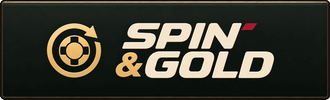
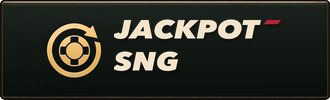
feat: re-letter the Jackpot SNG, Battle Royale and Fast Fold tab plates
The header plates still showed Spin & Gold, Mystery Battle Royale and Rush & Cash baked into the
art. tools/original-assets/tab-plates.py keeps each plate's frame, background and icon, repaints
the old lettering area with the plate's own background and sets the DanGG name in Avenir Next
Heavy Italic with the red slash accent. Same 330x100 size, so no code changes.

Changed region(s): [[0.3333, 0.18, 0.8485, 0.81]]

diff --git a/tools/original-assets/tab-plates.py b/tools/original-assets/tab-plates.py
@@ -1,0 +1,104 @@
+#!/usr/bin/env python3
+"""Re-letter three of Dan's header game-tab plates with DanGG product names.
+
+The plates (app/public/assets/chrome/tab_*.png, 330x100) are Dan's own artwork. This keeps each
+plate's frame, background and icon, clears the old lettering by repainting that area with the
+plate's own background (a per-row blend of the clean columns on either side), and sets the new
+name in two lines of Avenir Next Heavy Italic with the red slash accent the other plates use.
+Re-running is safe: it clears and re-letters the same area.
+
+Run from the repo root (needs Pillow):  python3 tools/original-assets/tab-plates.py
+"""
+from pathlib import Path
+
+from PIL import Image, ImageDraw, ImageFilter, ImageFont
+
+CHROME = Path(__file__).resolve().parents[2] / "app/public/assets/chrome"
+FONT = ("/System/Library/Fonts/Avenir Next.ttc", 9)  # Heavy Italic
+CREAM = (244, 228, 204, 255)
+RED = (179, 38, 53, 255)
+SHADOW = (0, 0, 0, 150)
+SCALE = 4  # supersampling for clean edges
+TEXT_RIGHT = 306  # last x the lettering may reach (the frame's inner edge is at ~326)
+CLEAR_RIGHT = 321  # right clean column of the plate interior
+CLEAR_TOP, CLEAR_BOTTOM = 4, 95
+LINE_TOPS = (20, 52)  # cap tops of the two lines, matching the existing two-line plates
+CAP_HEIGHT = 26
+STRETCH = 1.16  # horizontal widening, closer to the extended lettering of the other plates
+CANVAS_W = 260  # width of the lettering layer before widening
+
+# plate key -> (first x right of the icon ring, line 1, line 2)
+PLATES = {
+    "spin": (106, "JACKPOT", "SNG"),
+    "battle": (114, "BATTLE", "ROYALE"),
+    "rush": (120, "FAST", "FOLD"),
+}
+
+
+def clear_lettering(im: Image.Image, x0: int) -> Image.Image:
+    """Repaint x0..CLEAR_RIGHT with a per-row blend of the clean columns at its two edges."""
+    out = im.copy()
+    px = out.load()
+    span = CLEAR_RIGHT - x0
+    for y in range(CLEAR_TOP, CLEAR_BOTTOM + 1):
+        left, right = im.getpixel((x0 - 1, y)), im.getpixel((CLEAR_RIGHT, y))
+        for x in range(x0, CLEAR_RIGHT):
+            t = (x - x0) / span
+            px[x, y] = tuple(round(a + (b - a) * t) for a, b in zip(left, right))
+    return out
+
+
+def font_for_cap_height(cap: int) -> ImageFont.FreeTypeFont:
+    size = cap * SCALE
+    while True:
+        font = ImageFont.truetype(FONT[0], size, index=FONT[1])
+        top, bottom = font.getbbox("H")[1], font.getbbox("H")[3]
+        if bottom - top <= cap * SCALE:
+            return font
+        size -= 1
+
+
+def lettering(x0: int, lines: tuple[str, str]) -> Image.Image:
+    """Transparent 330x100 layer with the two lines, their shadow and the red slash."""
+    width = TEXT_RIGHT - (x0 + 8)
+    cap = CAP_HEIGHT
+    font = font_for_cap_height(cap)
+    while max(font.getlength(line) for line in lines) * STRETCH > width * SCALE - 22 * SCALE:
+        cap -= 1
+        font = font_for_cap_height(cap)
+    big = Image.new("RGBA", (CANVAS_W * SCALE, 100 * SCALE), (0, 0, 0, 0))
+    draw = ImageDraw.Draw(big)
+    h_top = font.getbbox("H")[1]
+    for line, top in zip(lines, LINE_TOPS):
+        y = top * SCALE - h_top + (CAP_HEIGHT - cap) * SCALE // 2
+        draw.text((0, y), line, font=font, fill=CREAM)
+    # The accent: a short red parallelogram just right of the first line's cap top.
+    sx, sy = font.getlength(lines[0]) + 4 * SCALE, LINE_TOPS[0] * SCALE
+    w, h, slant = 12 * SCALE, 4 * SCALE, 3 * SCALE
+    draw.polygon([(sx + slant, sy), (sx + w + slant, sy), (sx + w, sy + h), (sx, sy + h)], fill=RED)
+    text_layer = big.resize((round(CANVAS_W * STRETCH), 100), Image.LANCZOS)
+    text = Image.new("RGBA", (330, 100), (0, 0, 0, 0))
+    text.alpha_composite(text_layer.crop((0, 0, 330 - (x0 + 8), 100)), (x0 + 8, 0))
+    alpha = text.getchannel("A").filter(ImageFilter.GaussianBlur(1.2))
+    shadow = Image.new("RGBA", text.size, SHADOW)
+    shadow.putalpha(alpha.point(lambda a: a * SHADOW[3] // 255))
+    layer = Image.new("RGBA", text.size, (0, 0, 0, 0))
+    layer.alpha_composite(shadow, (1, 2))
+    layer.alpha_composite(text)
+    return layer
+
+
+def main() -> None:
+    for key, (x0, *lines) in PLATES.items():
+        for suffix in ("", "_active"):
+            path = CHROME / f"tab_{key}{suffix}.png"
+            plate = Image.open(path).convert("RGBA")
+            assert plate.size == (330, 100), f"{path.name} is {plate.size}, expected 330x100"
+            result = clear_lettering(plate, x0)
+            result.alpha_composite(lettering(x0, tuple(lines)))
+            result.save(path, optimize=True)
+            print(f"wrote {path.relative_to(CHROME.parents[3])}")
+
+
+if __name__ == "__main__":
+    main()
